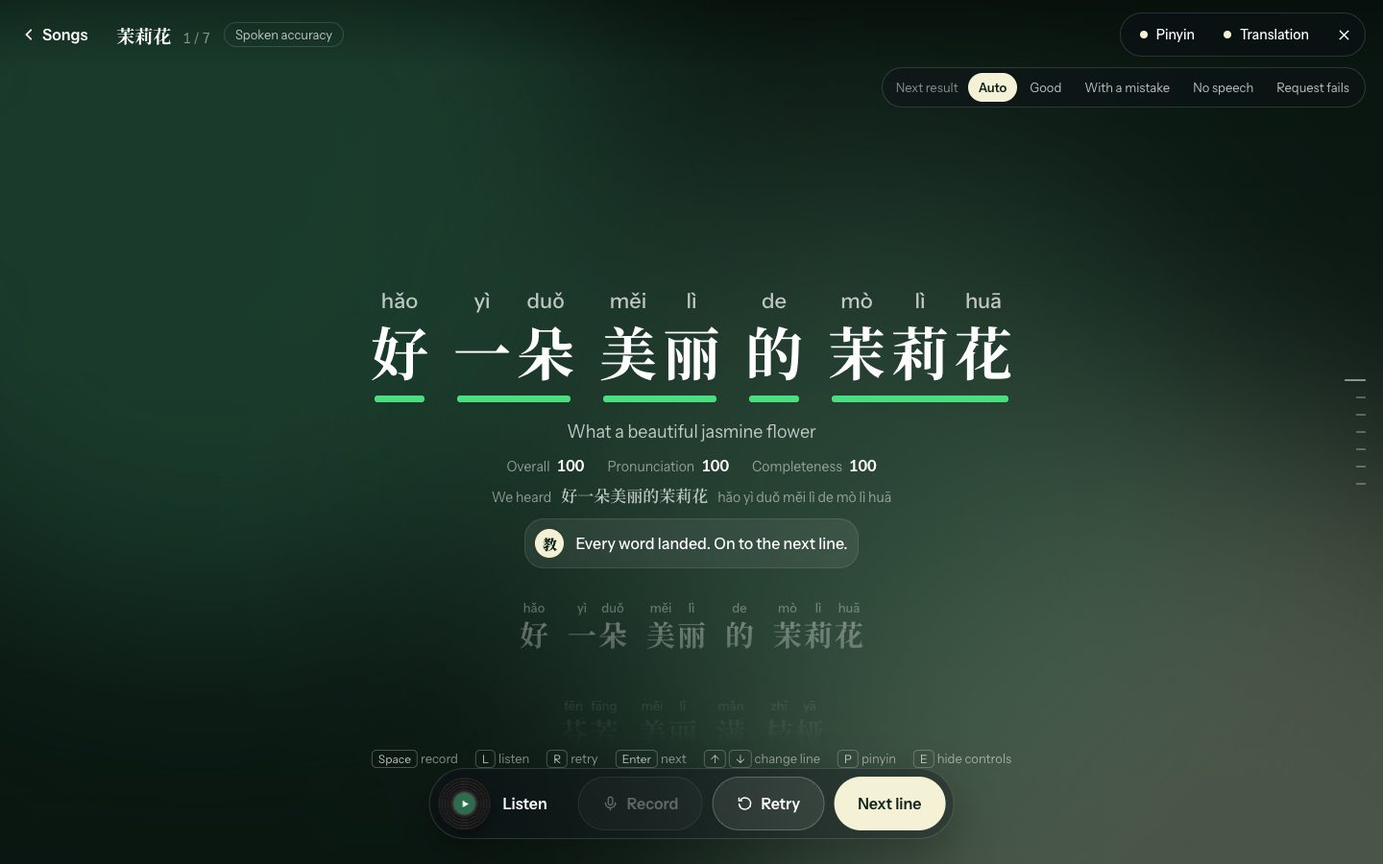
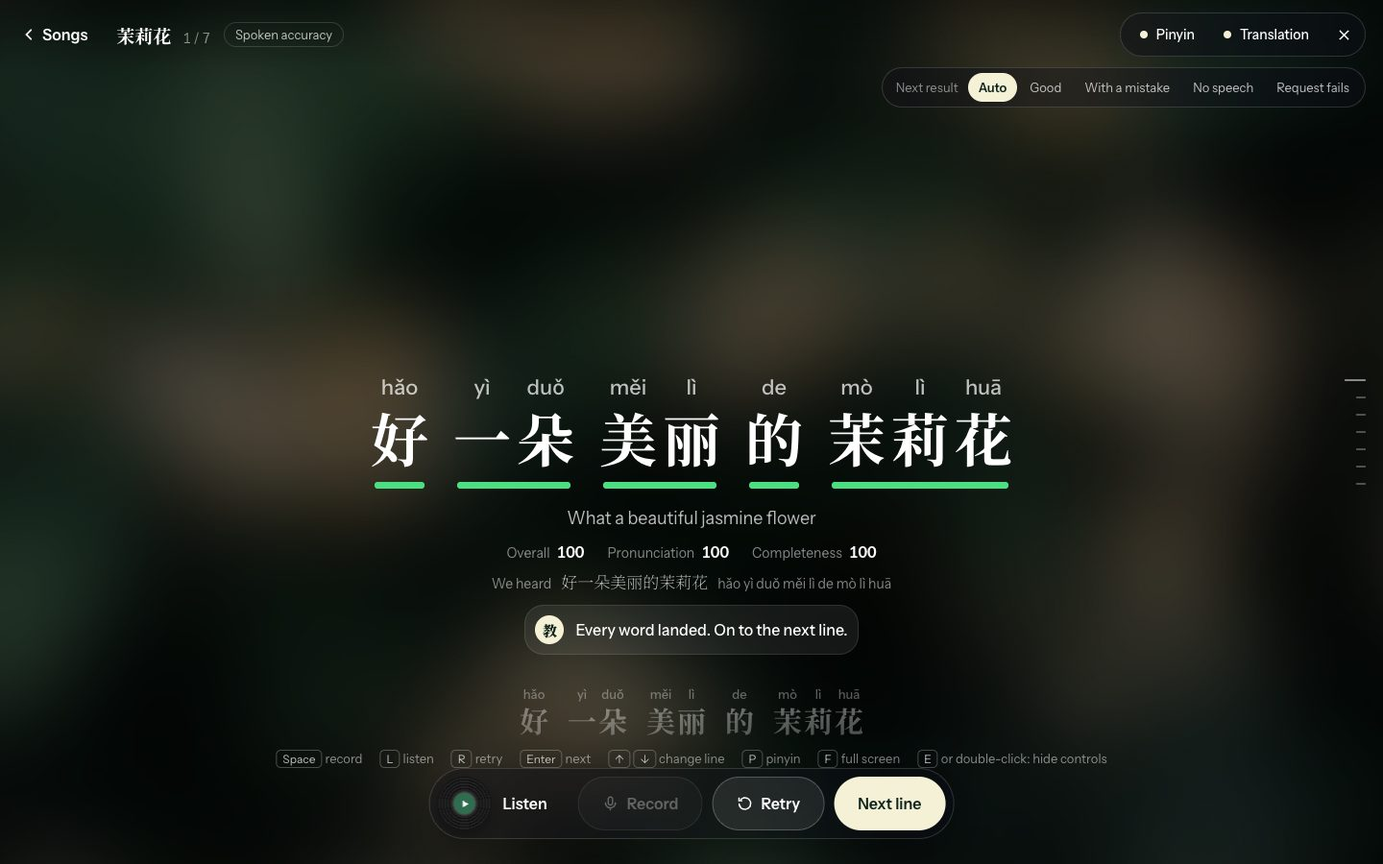
Redesign the song screen as a tuning dial over full-screen photographs
- Each song is a full-screen photograph (Unsplash, credited) under film
  grain, with a hairline serif title split over two staggered lines.
- Songs sit around a tuning dial on the right instead of a flat shelf.
  Turning it dissolves one photo into the next through static, with
  optional crackle and radio static generated in Web Audio.
- Starting a song opens no window: the photo blurs into the line
  screen's background and the lyrics rise in. The mode choice and the
  microphone prompt are inline.
- F toggles full screen; a double-click does what the Aa pill does.
- The active line and the practised word sit at the vertical centre;
  practice results are marked on the pinyin itself.

diff --git a/docs/design/ui.md b/docs/design/ui.md
@@ -2,7 +2,7 @@
 
 **Keeper:** A. **Used by:** A, and anyone preparing the demo.
 
-**Status:** draft v0.5, 3 October 2026. Follows [PROJECT_PLAN.md](../PROJECT_PLAN.md) revision 5.
+**Status:** draft v0.6, 3 October 2026. Follows [PROJECT_PLAN.md](../PROJECT_PLAN.md) revision 5.
 
 This document holds the frontend's visual design and interaction details. It does not restate behaviour or data. When it disagrees with these files, they win:
 
@@ -16,11 +16,12 @@ Screenshots of the clickable prototype are in [screens/](screens/).
 | Topic | tasks/frontend.md | This document |
 |---|---|---|
 | Look | Not specified | Per-song colour themes, glass surfaces, Hanzi and Pinyin type, motion (section 3) |
-| Song screen | "A list of songs" | A record stage: one song at a time, a shelf to switch, the whole page re-themed per song, a preview playing (section 5.1) |
+| Song screen | "A list of songs" | One full-screen photograph per song with a huge hairline title, and a tuning dial to turn between songs; the picture dissolves through static between them (section 5.1) |
 | Word chips | "Each word as a coloured chip" | The lyric's own words are the chips: a status bar under each word, no second row of words (section 5.3) |
 | Line-screen controls | Header, line, buttons | One look. The dock shows only the current step's actions; one **Aa** pill opens every control and option (section 5.3.1) |
 | Moving between lines | Retry, Next line, progress | Also swipe with a trackpad, mouse wheel or touch, one line per gesture (section 5.3.3) |
-| Word practice | A panel over the line screen | In place: the word grows into the middle of the screen, the lyrics step back, and the dock carries the practice actions until the word is graded `good` (section 5.4) |
+| Starting a song | A Start button | No window: the song screen's photo blurs into the line screen's background and the lyrics rise in. The mode choice and the microphone prompt are inline (sections 5.1, 5.2) |
+| Word practice | A panel over the line screen | In place: the word moves to the exact centre of the screen, the lyrics step back, and the dock carries the practice actions until the word is graded `good` (section 5.4) |
 | Coach | Not specified | The feedback message is the coach speaking; later, the same spot opens a conversation (section 5.5) |
 
 ## 2. Goals
@@ -47,7 +48,8 @@ Non-goals, as in the frontend task: mobile layout, accounts, saved history.
 
 - **Per-song theme.** Each song has five colours: `c0` (base), `c1`–`c3` (background blobs) and `accent` (primary buttons, record button, highlights). Themes live in the frontend (`src/theme/songThemes.ts`, keyed by song id). They are design assets, not part of the API contract.
 - **The theme always belongs to a song.** The song screen shows the selected song's theme; switching songs crossfades every colour on the page over about a second. Register the five colours with CSS `@property` so they animate.
-- **Background:** drifting, heavily blurred blobs in `c1`–`c3` over `c0`. Fallback: a static gradient of the same colours.
+- **Background:** the song's photograph. Sharp and slowly pushing in on the song screen; blurred (46px), saturated and darkened on the line screen, so the song's colours stay with the user. Fallback without a photo: blurred blobs in `c1`–`c3` over `c0`.
+- **Film grain** over everything: an SVG noise texture, jittered at 8 frames a second, blended with `overlay` at about 10% (7% on the line screen). It rises towards 45% while the dial is between two songs.
 - **Scrim:** 35–45% black over the background, so white text always passes contrast.
 - **Text:** white at 100% (active line), 55% (upcoming), 30% (past).
 - **Status colours**, the same everywhere in the app. The shape cue keeps them readable without colour:
@@ -71,7 +73,7 @@ Glass surfaces: dark 34% fill, 24px blur, 1px border in white 14%. Easing for UI
 
 ### 3.2 Typography
 
-- **Hanzi:** Noto Serif SC. 900 for song titles, sleeves and the song screen's giant character; 700 for lyric lines. Active line 60px (52px under 760px tall), other lines 30px, the practised word up to 150px.
+- **Hanzi:** Noto Serif SC. 200 (hairline) for the song screen's titles; 700 for lyric lines, the dial and the practised word. Active line 60px (52px under 760px tall), other lines 30px, the practised word up to 150px.
 - **Pinyin:** Instrument Sans 500, about 40% of the Hanzi size, **above** each character (ruby style), centred per syllable.
 - **UI text:** Instrument Sans 13–16px. The size contrast between the Hanzi and the UI text is the design; keep the UI text small and quiet.
 - **Self-host both fonts** with the `@fontsource` packages. Venue Wi-Fi is a risk (plan section 8).
@@ -85,7 +87,8 @@ Two springs, sampled into CSS `linear()` easings so CSS and JavaScript share the
 
 Moments:
 
-- **Song switch (song screen):** the outgoing sleeve slides and tilts away in the direction of travel, the new one slides in from the other side, the title block rises in, the giant character crossfades, the whole theme crossfades, and the record slides further out and spins while the preview plays. Use the View Transitions API with named elements (`hero-sleeve`, `hero-info`, `hero-glyph`).
+- **Turning the dial (song screen):** the dial follows the wheel, trackpad or drag continuously and settles on a song with a spring when the gesture ends. On the way, the two photos crossfade and blur, the grain thickens into static (and, with sound on, radio static rises), and the title, copy and theme switch when the dial passes halfway. The new title's characters arrive one by one, out of a blur.
+- **Starting a song:** the title's characters drift up and blur out, the dial turns away to the right, the photo blurs and darkens into the line screen's background, and the lyric lines rise in one after another, followed by the dock.
 - **Karaoke fill during Listen:** each character fills left to right. Use each syllable's `start_ms` and `end_ms` from `song.json` when the pipeline has aligned the track; until then they are `null`, so split the line's time evenly.
 - **Changing line:** the list moves so the active line sits 40% from the top. The active line's growth and the list's movement animate together, so no other line jumps: measure before and after, then animate the difference with transforms (FLIP).
 - **Swipe:** on touch, the list follows the finger. Past the first or last line, it stretches a little and springs back.
@@ -104,8 +107,9 @@ Checked on 2026-10-03. We copy behaviour and look, not code, except where the li
 |---|---|---|---|
 | Look | [surfbryce/beautiful-lyrics](https://github.com/surfbryce/beautiful-lyrics) (~2.4k★) | Colour-matched background, word-synced lyrics, cinema view. **Main visual reference.** | No license: look only |
 | Look | [amll-dev/applemusic-like-lyrics](https://github.com/amll-dev/applemusic-like-lyrics) (~2.2k★) | Apple Music style lyrics with a fluid background | AGPL-3.0: look only |
-| Song screen | [Awwwards: music and sound](https://www.awwwards.com/websites/music-sound/), [Music Interfaces collection](https://www.awwwards.com/awwwards/collections/music-interfaces/) | One album in the spotlight, browsed like a crate (SIRUP's album navigation) | Look only |
-| Song screen | [A juror's 2026 roundup](https://www.hontran.dev/blog/best-award-winning-websites-2026) | Editorial type (By-Kin); a guided sequence instead of a grid (Iventions) | Look only |
+| Song screen | Awwwards Sites of the Day, late Sep–Oct 2026: [Tengile Malamala](https://tengilemalamala.com), [White Desert](https://white-desert.com), [Warm & Fuzzy](https://warmnfuzzy.tv) | Full-bleed photography with huge display type laid over it; a thin serif split across two staggered lines; visible film grain; almost no chrome | Look only |
+| Song dial | Awwwards inspiration: [Throwbacks Music circular menu](https://www.awwwards.com/inspiration/circular-menu-navigation-this-is-spotify), [KUROKAWA WONDERLAND clock-like navigation](https://www.awwwards.com/inspiration/clock-like-navigation) | Browsing a small music collection by turning a wheel | Look only |
+| Song photos | Unsplash: [Irina Iriser](https://unsplash.com/photos/vB4_CtsfaZ0) (茉莉花), [yamasa-n](https://unsplash.com/photos/SPEUTg0phCg) (一剪梅), [Laura Cleffmann](https://unsplash.com/photos/gRT7o73xua0) (月亮代表我的心) | One photograph per song | Unsplash License: free to use; credit shown on the song screen |
 | Options pill, dock | [ibelick/motion-primitives](https://github.com/ibelick/motion-primitives) (~6.5k★) | `toolbar-expandable` and `toolbar-dynamic`: spring with bounce 0.1 over 0.2–0.25s, measured width, contents fading in | MIT: **use the patterns** |
 | React animation | [motiondivision/motion](https://github.com/motiondivision/motion) (~34k★) | `layout` and `layoutId` for the word-to-centre move and the dock's size changes in the React build | MIT: **use it** |
 | Word practice | [Thiagohgl/ai-pronunciation-trainer](https://github.com/Thiagohgl/ai-pronunciation-trainer) (~0.5k★) | Words coloured by correctness; clicking one shows the expected and heard sounds | AGPL-3.0: look only |
@@ -115,25 +119,26 @@ Checked on 2026-10-03. We copy behaviour and look, not code, except where the li
 
 ## 4. Layout
 
-Target viewport **1440×900**; must work at **1280×720** (projector). Below 1024px wide, show a "built for laptops" notice. The browser's window size is never changed by the app.
+Target viewport **1440×900**; must work at **1280×720** (projector). Below 1024px wide, show a "built for laptops" notice. The window goes full screen only when the user presses `F`.
 
 ### 4.1 Song screen
 
 ```
 ┌──────────────────────────────────────────────────────────────────────┐
-│ ◉ Karaoke Helper                                       (Previews on) │
-│ Learn Mandarin by singing                                            │
-│ the songs you love.                                                  │
-│ 1 Listen to a line  2 Sing it back  3 See every word  4 Practise…    │
-│                                                     ░░░░░░░░░░░░░░░░ │
-│  ┌────────────┐◐◐◐       Jiangsu folk song. Slow, …  ░░ giant 茉 ░░░ │
-│  │            │  ◐        茉莉花                     ░░ (bleeds off) │
-│  │     茉     │  ◐ record  mò lì huā   Jasmine Flower ░░░░░░░░░░░░░░ │
-│  │   sleeve   │  ◐        hǎo yì duǒ měi lì de …                     │
-│  └────────────┘◐◐◐       好一朵美丽的茉莉花   ← live fill + bars      │
-│  ▂▄▆ Playing a preview    [ Sing 茉莉花 ]  7 lines, easy              │
-│ ──────────────────────────────────────────────────────────────────── │
-│ [茉 茉莉花] [梅 一剪梅] [月 月亮代表我的心]                 ‹ 1 / 3 › │
+│ ◉ Karaoke Helper                    (full-screen photo)  (Sound on)  │
+│ Learn Mandarin by singing the songs you love.            ╱ ticks     │
+│ 1 Listen  2 Sing it back  3 See every word  4 Practise  ╱            │
+│                                                        │      01     │
+│   茉 莉              ← hairline serif, ~19% of the     │   茉莉花 ──── needle
+│        花               screen height, two staggered   │ Jasmine Flower│
+│        mò lì huā   Jasmine Flower       lines          │ ▂▄▆ Playing   │
+│        A Jiangsu folk song. Slow, with one …           │      02      │
+│        [ Sing 茉莉花 ]  (Spoken accuracy | Singing)     │   一剪梅     │
+│                                                         ╲            │
+│                hǎo yì duǒ měi lì de mò lì huā            ╲ dial      │
+│                好一朵美丽的茉莉花   ← subtitle: live fill + bars       │
+│                Sing a line back and every word gets a colour.        │
+│                                              Photo: Irina Iriser, Unsplash │
 └──────────────────────────────────────────────────────────────────────┘
 ```
 
@@ -177,18 +182,20 @@ Target viewport **1440×900**; must work at **1280×720** (projector). Below 102
 
 ## 5. Screens
 
-### 5.1 Song screen: the record stage
+### 5.1 Song screen: tune the dial
 
-- **One song in the spotlight.** A large typographic sleeve with the record half pulled out, the title in large serif, pinyin and English, one sentence about the song, and one line of its lyric filling and grading itself on a loop as a live demo. Start reads "Sing 茉莉花".
-- **The giant character.** The song's sleeve character, at almost the full screen height, sits behind the stage at 10% opacity and runs off the bottom-right edge. It is the page's one bold element; everything else stays small and quiet.
-- **The shelf.** Every song as a small sleeve with its title along the bottom. Click one, or press ← / →, to switch. A song that isn't ready still switches the stage, and its Start reads "Coming soon".
-- **Switching** re-themes the whole page and plays a preview (section 3.3).
-- **Preview.** About 12 seconds of the song, from `audio_url` at a chosen point, faded in and out with Web Audio. "Previews on / off" sits at the top right. Browsers only allow sound after a click, and every switch is a click or a key press, so previews start with the switch. See section 9, question 3 for where the clip comes from.
-- **Start** opens the mode choice: "Pick a mode. You sing the same way in both", then **Spoken accuracy** ("Did the right words come out? Checks the sounds of each word.") and **Singing accuracy** ("A closer look at every sound, plus your rhythm against the original."). When `VITE_SHOW_MODE_CHOICE` is off (the default), it shows only Start, and the mode is spoken accuracy.
+- **The photograph is the page.** Each song has one photograph, full screen, slowly pushing in, under a soft left-to-right and bottom shade and the film grain. The theme colours come from the same song.
+- **The title is the bold element.** Noto Serif SC at weight 200, about 19% of the screen height, split over two staggered lines (茉莉 / 花, 月亮代表 / 我的心), sized so it never reaches the dial. Under it, aligned with the second line: pinyin and English, one sentence about the song, then **Sing 茉莉花** and, when `VITE_SHOW_MODE_CHOICE` is on, two inline options: Spoken accuracy and Singing accuracy (each explains itself on hover). Off, the mode is spoken accuracy.
+- **The dial.** On the right, a large ring centred just off the screen, with fine tick marks and a longer tick per song. The songs sit around its left edge: number, title, and (for the selected one) the English title and "Playing a preview". An accent needle marks the selected song. Turn it with the wheel or trackpad, by dragging, with ↑ ↓ ← →, or by clicking a song. One wheel notch or one short swipe moves one song; a long swipe can move several. A song that isn't ready still tunes in, and its button reads "Coming soon".
+- **Between songs** the picture dissolves through static (section 3.3). With sound on, a faint vinyl crackle plays on the song screen and radio static rises between songs; both are generated with Web Audio and need no files. Browsers only allow sound after a click or a key press.
+- **The subtitle.** At the bottom centre, like a film subtitle, one line of the song's lyric fills and grades itself on a loop, with "Sing a line back and every word gets a colour." under it.
+- **Preview.** Once the dial settles, about 12 seconds of the song from `audio_url`, faded in and out. See section 9, question 3 for where the clip comes from.
+- **Credit** for the photograph sits small in the bottom-right corner.
+- **Sing** (or Enter) starts the song without a window (section 3.3).
 
 ### 5.2 Microphone setup (first Record only)
 
-A single centred card the first time the user presses Record: "Allow microphone", then a live level meter and "Say 你好 (nǐ hǎo) to test it", with a green check when sound is detected. This is a local check; nothing is sent. Microphone settings follow the frontend task's implementation notes.
+No window. The first time the user presses Record, the dock turns into the prompt: "Recording needs your microphone", **Allow microphone**, "Use a simulated mic" and ✕. Once allowed, it shows a live level meter with "Say 你好 (nǐ hǎo) to test it" (a green check when sound is detected) and **Start recording**. Nothing is sent. Microphone settings follow the frontend task's implementation notes.
 
 ### 5.3 Line screen
 
@@ -216,7 +223,7 @@ The states and their rules are in the frontend task. This is what each state loo
 
 #### 5.3.1 Controls: closed and open
 
-One look in both. Opening the controls never changes the window size.
+One look in both. Opening the controls never changes the window size; `F` alone does that.
 
 | | Closed (default) | Open |
 |---|---|---|
@@ -226,8 +233,9 @@ One look in both. Opening the controls never changes the window size.
 | Keyboard hints | Hidden | A row of hints above the dock |
 | Rehearsal (with `?demo`) | Hidden | A small pill under the options pill: "Next result: Auto / Good / With a mistake / No speech / Request fails" |
 
-- **Switching:** the Aa pill, or `E`. Esc closes the controls.
-- **First line of a session:** a short hint, "Swipe or press ↑ ↓ to change line. Tap Aa to see every control."
+- **Switching:** the Aa pill, `E`, or a double-click anywhere that isn't a button, a word or the coach. Esc closes the controls.
+- **Full screen:** `F`, anywhere in the app, toggles the browser's full screen. Nothing else changes the window.
+- **First line of a session:** a short hint, "Swipe or press ↑ ↓ to change line. Double-click anywhere for every control."
 
 #### 5.3.2 Changing line
 
@@ -246,15 +254,16 @@ Four ways: swipe, `↑/↓`, click a line, click a tick on the line rail.
 - **Practised mark:** when practice ends after a `good` attempt, a small ✓ sits on the word's corner. The word keeps its colour from the sung attempt, because colour comes only from that attempt's `status`. Singing the line again clears the mark.
 - **Hover a word** (P2): a tooltip per syllable with the expected and heard initial and final.
 - **Early or late** (optional, block 3): when `syllables[].timing.offset_ms` is set, the hover tooltip says "came in 120 ms early" and a small notch on the word's bar sits left (early) or right (late) of centre.
-- **Keyboard:** `Space` record or stop, `L` listen, `R` retry, `Enter` next line, `↑/↓` change line, `P` pinyin, `E` controls, `Esc` close whatever is open.
+- **Keyboard:** `Space` record or stop, `L` listen, `R` retry, `Enter` next line, `↑/↓` change line, `P` pinyin, `E` controls, `F` full screen, `Esc` close whatever is open.
+- **The active line sits at the vertical centre of the screen;** what is under it (translation, scores, the coach) flows below.
 
 ### 5.4 Word practice, in place
 
 The frontend task's Word practice panel, without a panel. It sends `target=word` with the word's `word_index`.
 
-- **Opening:** the clicked word grows from its slot in the lyric to the upper middle of the screen (pinyin above, Hanzi up to 150px). The lyrics fade to 12%, blur slightly and shrink to 98%; the line rail hides. The header's back button reads "Line 2". The word stays at the same height while the content under it changes.
-- **Under the word:** its English meaning, then one dot per graded attempt (newest on the right), then either the hint "Listen, then say the word on its own", the latest result, or "Nailed it.".
-- **The latest result:** one column per syllable with rows for initial, final and (from stage 3) tone: a status dot, the expected sound, and the heard one ("Final ei, heard ai"). Under them, the coach bubble with the syllables' feedback messages and "Ask why".
+- **Opening:** the clicked word grows from its slot in the lyric to the exact centre of the screen (pinyin above, Hanzi up to 150px). The lyrics fade to 12%, blur slightly and shrink to 98%; the line rail hides. The header's back button reads "Line 2". The layout is three rows (`1fr auto 1fr`) with the word in the middle one, so the word stays centred whatever appears under it.
+- **The result is marked on the word itself.** In the pinyin above each character, the initial and the final take their own status colour and underline (dotted for `ok`, wavy for `wrong`, dashed for `missing`; `good` stays plain), and a small caption under the character says what was heard ("heard ai", "not heard"). Tone joins from stage 3.
+- **Under the word:** its English meaning with one dot per graded attempt beside it, then the hint "Listen, then say the word on its own", or "Nailed it.", or the coach bubble with the syllables' feedback messages and "Ask why".
 - **The dock carries the practice actions:** Listen (the spoken reference: `audio_url`, or `speechSynthesis` in `zh-CN` when it is `null`), **Record** / **Record again**, and a quiet "I'm confident" that ends practice at any time.
 - **Success:** when the returned word's `status` is `good`, the Hanzi turns green, a ring expands, "Nailed it." appears, and the dock offers **Sing the line again** (primary) and Keep practising. Sing the line again ends practice and puts the line in `ready`.
 - **Ending practice:** I'm confident, the back button, Esc, or a click on the faded lyrics (not while recording or grading). The word flies back into its slot.
@@ -278,8 +287,9 @@ The file split in `frontend/src/` is a starting point (plan section 10). This de
 | Component | Key inputs | Notes |
 |---|---|---|
 | `DynamicBackground` | theme, `playing` | Drifting, or static with reduced motion |
-| `RecordStage`, `Shelf` | `SongSummary[]`, selected index | The song screen; switching drives the theme and the preview |
-| `PreviewPlayer` | a clip URL and start time | Web Audio with fades; respects the Previews switch |
+| `PhotoBackdrop`, `Grain` | the songs' photos, dial position | Crossfades and blurs the photos; sharp on the song screen, blurred on the line screen |
+| `SongDial` | `SongSummary[]`, position | Continuous position with a settling spring; wheel, drag, keys, click |
+| `Ambience`, `PreviewPlayer` | sound on, dial position, a clip URL | Crackle and static generated with Web Audio; the preview with fades |
 | `TopBar` | title, line N of M, mode, controls open | Fades when idle |
 | `OptionsPill` | `showPinyin`, `showTranslation`, open, demo flag | Also the switch for the dock |
 | `Dock` | actions for the state, open, input level | Renders `actionsFor(state, open)` or the practice actions; animates its width |
@@ -304,7 +314,7 @@ The frontend task's rules all apply. In addition:
 1. Word practice's success comes only from the returned word's `status` being `good`.
 2. Practice attempts and practised marks are kept in memory for the session only.
 3. Line changes are refused while recording, grading or practising a word.
-4. The app never changes the browser window's size.
+4. The window goes full screen only when the user presses `F`.
 
 ### Where each element gets its data
 
@@ -338,7 +348,7 @@ Every item ships if time allows. The tiers set the build order: finish a tier be
 | | | Options pill and the open state of the dock | 0.75 h |
 | | | Word practice in place: layout, dock actions | 0.75 h |
 | | | Coach bubble | 0.25 h |
-| **P1 Signature moments** | 6–13 | Song screen: stage, sleeve, giant character, shelf, theme crossfade | 2 h |
+| **P1 Signature moments** | 6–13 | Song screen: photos, hairline title, dial, dissolve through static, entering a song | 2.5 h |
 | | | Status bars grow in; scores count up | 1 h |
 | | | Karaoke fill during Listen | 1.5 h |
 | | | Line change with a spring and no jumping lines | 1 h |
@@ -355,7 +365,8 @@ Every item ships if time allows. The tiers set the build order: finish a tier be
 | | | `prefers-reduced-motion` | 0.5 h |
 | **P3 Finish** | before the hour-19 freeze | Keyboard shortcuts and hints | 1 h |
 | | | Loading and grading states | 0.5 h |
-| | | Mic setup card polish | 0.5 h |
+| | | Microphone prompt in the dock | 0.5 h |
+| | | Crackle and static ambience | 0.5 h |
 | | | Optional: early or late notches from `timing.offset_ms` | 1 h |
 | **Beyond the MVP** | after the freeze, or after the event | Coach drawer and conversation | not estimated |
 
@@ -369,11 +380,12 @@ Total is about 24 hours of design work on top of the functional work. P1 alone i
 4. **A coach endpoint, after the MVP.** Proposal: `POST /api/v1/coach` with `attempt_id` and the conversation so far, returning a reply and, optionally, an `audio_url` of the reply spoken. A spoken coach would also fit the ElevenLabs sponsor track.
 5. **Which message goes under the line?** The frontend task lists "one feedback message", and the `Feedback` component header names both "the feedback message" and "the suggested next step". This design shows `next_step.message` under the line and the syllables' `feedback.message` in Word practice. B to confirm.
 6. **Best Design (Figma × MHacks):** does the track require a Figma file? If so, who makes it and when?
-7. **Dropped from earlier drafts:** a phonetic respelling row ("how" for hǎo), culture notes, an end-of-song results screen, and browser full screen. The first three need new fields or summary rules; revisit only after the hour-19 freeze.
+7. **Photos for more songs.** Each song needs a photograph that can be used freely (Unsplash License or our own), stored with the frontend's themes, with a credit. Who picks them?
+8. **Dropped from earlier drafts:** a phonetic respelling row ("how" for hǎo), culture notes, an end-of-song results screen, and the mode-choice window. The first three need new fields or summary rules; revisit only after the hour-19 freeze.
 
 ## 10. Demo script (90 seconds)
 
-1. Song screen: switch from 茉莉花 to 一剪梅 and back (the page re-themes, the record spins, a preview plays), then **Sing 茉莉花** → Start.
+1. Song screen: turn the dial from 茉莉花 to 一剪梅 and back (the jasmine dissolves through static into plum blossom and back), then **Sing 茉莉花**: the title drifts away and the photo becomes the background.
 2. Line 1: press the vinyl to **Listen** (karaoke fill), **Record**, sing it well → green bars grow in, scores count up.
 3. Swipe up on the trackpad → line 2 springs into place. Sing it with one deliberate mistake → one word turns red; the coach names the word to practise; that word has an accent ring.
 4. Click that word → it grows into the middle of the screen as the lyrics step back → **Listen** → say the word → initial and final results (and tone from stage 3). Say it again until it turns green: "Nailed it."
@@ -392,8 +404,9 @@ Checked in headless Chrome at 1440×900 and 1280×720. Not yet checked by hand: 
 | Screen | File |
 |---|---|
 | Song screen | [screens/song-screen.jpg](screens/song-screen.jpg) |
-| Song screen after switching | [screens/song-screen-switched.jpg](screens/song-screen-switched.jpg) |
-| Mode choice | [screens/mode-choice.jpg](screens/mode-choice.jpg) |
+| Song screen while turning the dial | [screens/song-screen-tuning.jpg](screens/song-screen-tuning.jpg) |
+| Song screen after turning | [screens/song-screen-switched.jpg](screens/song-screen-switched.jpg) |
+| Microphone prompt in the dock | [screens/mic-prompt.jpg](screens/mic-prompt.jpg) |
 | Line screen, controls closed | [screens/immersive-result.jpg](screens/immersive-result.jpg) |
 | Line screen, controls open | [screens/controls-open.jpg](screens/controls-open.jpg) |
 | A word to practise | [screens/mistake.jpg](screens/mistake.jpg) |
